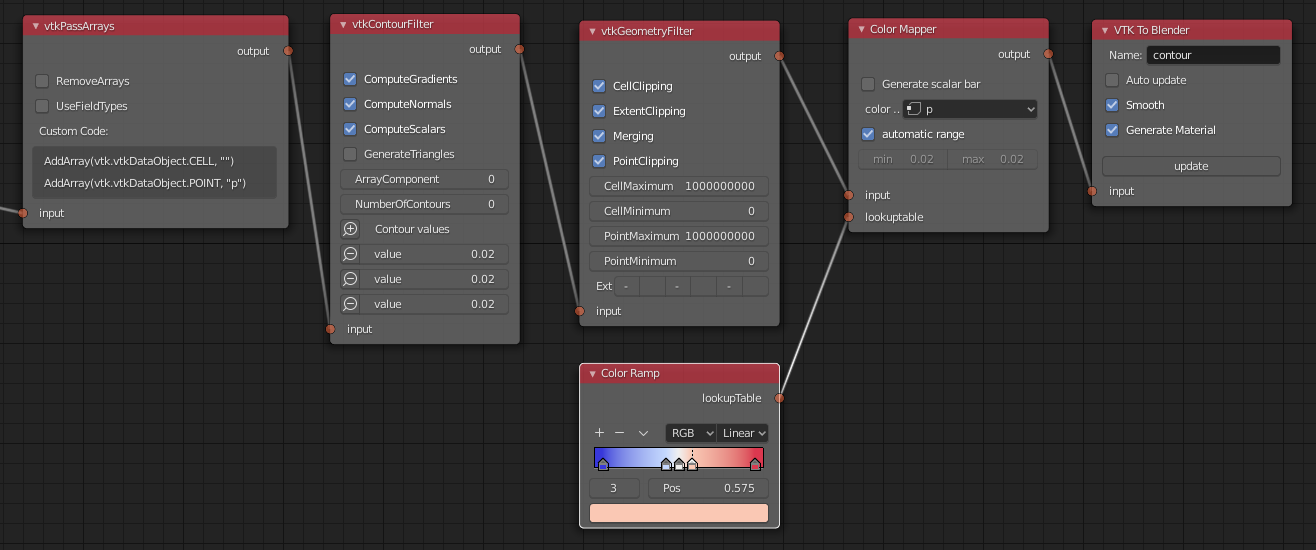
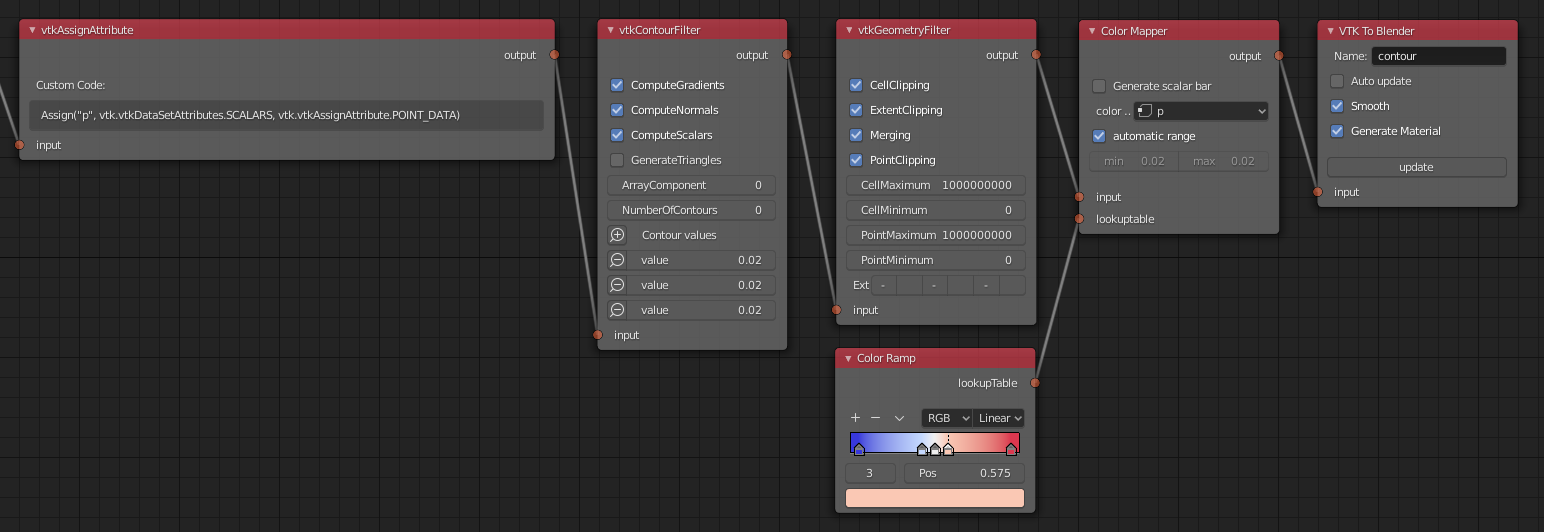
Favor vtkAssignAttribute over vtkPassArrays in examples
- use of vtkAssignAttribute allows coloring by another field
  variable, so favor that instead of vtkPassArrays in examples.

diff --git a/docs/ug_nodes.rst b/docs/ug_nodes.rst
@@ -69,10 +69,12 @@ need to
 Field Data Calculations
 -----------------------
 
-You can use the combination of *vtkPassArrays* and
+You can use
 *vtkArrayCalculator* to calculate new fields from existing fields.
 
-* In *vtkPassArrays*, you must specify which cell or point data fields
+* **Optional**: Add first *vtkPassArrays* if you want to discard other
+  data arrays except the ones you use in calculations.
+  You can specify which cell or point data fields
   will be operated on, by adding Custom Code commands like::
   
     AddArray(vtk.vtkDataObject.CELL, "U")
@@ -143,6 +145,14 @@ how to color glyphs by velocity magnitude.
 * Run *Update*, select *Vector Magnitude* in *Color Mapper* node, and
   run *Update* again.
 
+.. note::
+
+   Selecting a vector field to *color by* in the *Color Mapper* node
+   will only use the first vector component. If vector magnitude is
+   not generated by a VTK operator (like *vtkGlyph3D* does here),
+   you can use *vtkArrayCalculator* upstream to generate it, see
+   `Field Data Calculations`_.
+
 .. image:: images/ug_glyphs_nodesetup.png
 
 Here is the result in 3D Viewport shown in Material Preview Mode:
@@ -155,7 +165,16 @@ Contours
 
 Contours can be generated with *vtkContourFilter*:
 
-* First add *vtkPassArrays* to select array data to be operated on
+* First add *vtkAssignAttribute* node and add Custom Code to
+  specify a point data array to be used for contouring, e.g.
+  ``Assign("p", vtk.vtkDataSetAttributes.SCALARS, vtk.vtkAssignAttribute.POINT_DATA)``
+
+.. note::
+
+   Some VTK operations require use of *vtkPassArrays*, *vtkAssignAttribute*
+   or a node specific function to activate arrays to operate on, even
+   if there is only one array in input.
+
 * Add *vtkContourFilter*, and add wanted contour values by pressing
   the plus icon and then input three values: 0.017, 0.02, 0.023.
   Disable **GenerateTriangles** to retain polyhedrons.
@@ -164,14 +183,8 @@ Contours can be generated with *vtkContourFilter*:
 * Add *Color Mapper*, *Color Ramp* and *VTK To Blender* nodes. In *VTK
   To Blender* node, select both **Generate Material** and **Smooth**
   to get smoothened face normals.
-
-.. note::
-
-   Some nodes require use of *vtkPassArrays*, *vtkAssignAttribute*
-   or a node specific function to activate arrays to operate on, even
-   if there is only one array in input. To use *vtkAssignAttribute*,
-   you need to add Custom Code like
-   ``Assign("p", vtk.vtkDataSetAttributes.SCALARS, vtk.vtkAssignAttribute.POINT_DATA)``
+* Run *Update* on the *VTK To Blender* node, select appropriate
+  coloring in *Color Mapper*, and rerun *Update*.
 
 .. image:: images/ug_contour_nodesetup.png
 
@@ -185,7 +198,9 @@ Iso-surface
 A closed iso-surface (a contour with no holes in surface, e.g. for
 volumetric rendering) can be achieved by clipping with a value with this
 approach using *vtkClipDataSet*, *vtkDataSetRegionSurfaceFilter* and
-*vtkPolyDataNormals* (to get consistent face normals):
+*vtkPolyDataNormals* (to get consistent face normals).
+Replace *vtkPassArrays* with *vtkAssignAttribute* (see `contours`_
+above) if you need to color the iso-surface with data.
 
 .. image:: images/ug_isosurface_nodesetup.png
 
@@ -200,7 +215,8 @@ Stream Tracers
 Stream tracers calculated by *vtkStreamTracer* can be visualized with
 e.g. *vtkTubeFilter* using this node setup:
 
-* Select the vector field for tracing with *vtkPassArrays* like above.
+* Select the vector field for tracing with *vtkAssignAttribute*
+  (see above) or *vtkPassArrays* like here.
 * Generate source points for stream tracer with e.g. *vtkPlaneSource*
   and make sure points are inside the domain.
 * Add *vtkStreamTracer* and modify settings according to your case:
